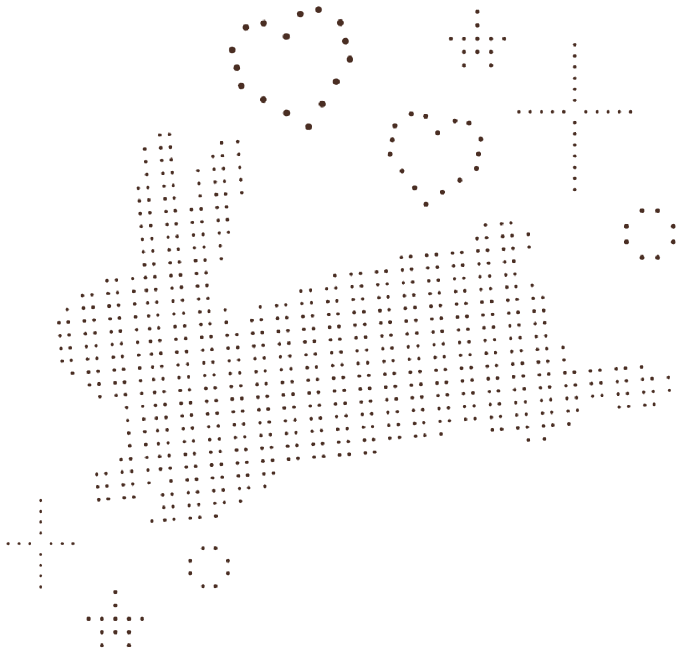
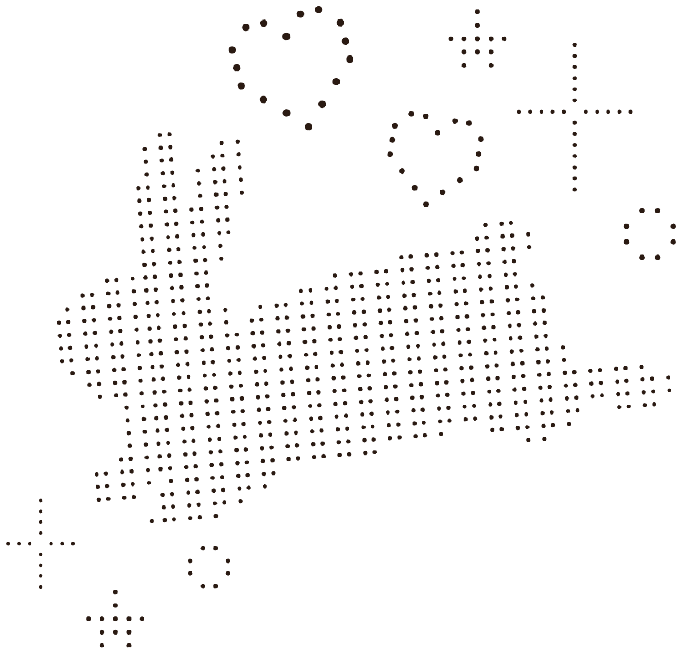
Compact cards, work experience section, two new projects

diff --git a/site/index.html b/site/index.html
@@ -269,78 +269,102 @@ a{color:inherit}
 @media(max-width:860px){.poster{width:clamp(136px,40vw,190px);
   margin-left:calc(clamp(136px,40vw,190px) / -2)}}
 
-#org .grid,#bangkit .grid{grid-template-columns:1fr;gap:clamp(.9rem,1.8vw,1.4rem)}
-#org .card,#bangkit .card{display:grid;align-items:start;gap:.1rem clamp(1rem,2vw,1.5rem);
+#bangkit .grid{grid-template-columns:1fr;gap:clamp(.9rem,1.8vw,1.4rem)}
+#bangkit .card{display:grid;align-items:start;gap:.1rem clamp(1rem,2vw,1.5rem);
   grid-template-columns:minmax(150px,26%) 1fr}
-#org .card > figure,#bangkit .card > figure{grid-column:1;grid-row:1/span 9;margin:0}
-#org .card > :not(figure),#bangkit .card > :not(figure){grid-column:2}
-#org .card h3,#bangkit .card h3{margin-top:-.15rem}
-#org .card .stack,#bangkit .card .stack{margin-top:.35rem}
+#bangkit .card > figure{grid-column:1;grid-row:1/span 9;margin:0}
+#bangkit .card > :not(figure){grid-column:2}
+#bangkit .card h3{margin-top:-.15rem}
+#bangkit .card .stack{margin-top:.35rem}
 @media(max-width:700px){
-  #org .card,#bangkit .card{grid-template-columns:1fr}
-  #org .card > figure,#bangkit .card > figure{grid-row:auto;margin-bottom:.7rem}
-  #org .card > :not(figure),#bangkit .card > :not(figure){grid-column:1}
+  #bangkit .card{grid-template-columns:1fr}
+  #bangkit .card > figure{grid-row:auto;margin-bottom:.7rem}
+  #bangkit .card > :not(figure){grid-column:1}
 }
 
-/* project cards: bold outline and a hard offset shadow, three to a row on every screen */
-#project-cards{--line:#2A1A12;padding:clamp(6.5rem,14vw,11.5rem) 0 clamp(6rem,13vw,11rem)}
-#project-cards .grid{grid-template-columns:repeat(3,minmax(0,1fr));gap:clamp(1.3rem,2.5vw,2.1rem)}
-#project-cards .card{background:#FFFCF7;border:3px solid var(--line);border-radius:22px;
-  box-shadow:7px 8px 0 var(--line);padding:1rem 1rem 1.15rem;
-  transition:transform .18s ease,box-shadow .18s ease}
+/* tiles: the same compact card on every screen. Photo, tools, title, a few lines of text,
+   and a button that opens the whole card */
+.tiles,.pdlg{--line:#2A1A12;--shade:#6B4030}
+.tiles .grid{grid-template-columns:repeat(3,minmax(0,1fr));gap:clamp(1.3rem,2.5vw,2.1rem)}
+#work .grid,#org .grid{grid-template-columns:repeat(2,minmax(0,1fr))}
+#project-cards{padding:clamp(9rem,19vw,16rem) 0 clamp(8.5rem,18vw,15rem)}
+.tiles .card{background:#FFFCF7;border:3px solid var(--line);border-radius:22px;
+  box-shadow:7px 8px 0 var(--shade);padding:1rem 1rem 1.05rem;cursor:pointer;
+  transition:transform .18s ease,box-shadow .18s ease;-webkit-tap-highlight-color:transparent}
 @media(hover:hover) and (min-width:861px){
-  #project-cards .card:hover{transform:translate(-3px,-3px);box-shadow:10px 11px 0 var(--line)}}
-:is(#project-cards,.pdlg) .card figure{margin:0 0 .9rem}
-:is(#project-cards,.pdlg) .card .slides{border:2px solid var(--line);border-radius:14px;background:#F3E6DA}
-:is(#project-cards,.pdlg) .card figure figcaption{margin-top:.45rem}
-:is(#project-cards,.pdlg) .card h3{font-size:1.08rem;font-weight:800;color:var(--line)}
-:is(#project-cards,.pdlg) .card .meta{width:fit-content;max-width:100%;margin:.55rem 0 .8rem;
+  .tiles .card:hover{transform:translate(-3px,-3px);box-shadow:10px 11px 0 var(--shade)}}
+.tiles .card:active{transform:translate(2px,2px);box-shadow:3px 4px 0 var(--shade)}
+.tiles .card figure{margin:0 0 .6rem}
+:is(.tiles,.pdlg) .card .slides{border:2px solid var(--line);border-radius:14px;background:#F3E6DA}
+.tiles .card figcaption{display:none}
+.tiles .card .stack{margin:0 0 .65rem;gap:.3rem}
+:is(.tiles,.pdlg) .card .stack span{background:var(--rose);border:1.5px solid var(--line);color:var(--line);
+  font-size:10px;font-weight:700;letter-spacing:.02em;line-height:1.3;padding:.18rem .55rem;border-radius:999px}
+:is(.tiles,.pdlg) .card h3{font-size:1.06rem;font-weight:800;color:var(--line)}
+:is(.tiles,.pdlg) .card .meta{width:fit-content;max-width:100%;margin:.5rem 0 .65rem;
   padding:.16rem .7rem;border:2px solid var(--line);border-radius:999px;background:var(--wheat);
   color:var(--line);font-size:.66rem;font-weight:700;letter-spacing:.04em;line-height:1.45}
-:is(#project-cards,.pdlg) .card .stack{padding-top:.3rem}
-:is(#project-cards,.pdlg) .card .stack span{background:var(--rose);border:1.5px solid var(--line);
-  color:var(--line);font-weight:700;padding:.12rem .5rem}
-:is(#project-cards,.pdlg) .card p.link a{color:var(--line);font-weight:700;border-bottom:2px solid var(--lotus-deep)}
-#project-cards .card .more{display:none}
+.tiles .card p.sum{display:-webkit-box;-webkit-line-clamp:3;-webkit-box-orient:vertical;overflow:hidden;margin-bottom:.8rem}
+:is(.tiles,.pdlg) .card .periods{list-style:none;padding:0;margin:0 0 .75rem;display:grid;gap:.3rem}
+:is(.tiles,.pdlg) .card .periods li{display:flex;justify-content:space-between;gap:.6rem;flex-wrap:wrap;
+  margin:0;padding:.28rem .6rem;border:1.5px solid var(--line);border-radius:10px;background:#FBF1E4;font-size:.74rem}
+:is(.tiles,.pdlg) .card .periods b{color:var(--line)}
+:is(.tiles,.pdlg) .card .periods span{color:var(--silt)}
+.tiles .card .open{align-self:flex-start;margin-top:auto;padding:.28rem .8rem;border:2px solid var(--line);
+  border-radius:999px;background:var(--wheat);color:var(--line);font:700 .72rem/1.3 Karla,sans-serif;
+  box-shadow:2px 3px 0 var(--shade);cursor:pointer}
+.tiles .card .open[hidden]{display:none}
+.tiles .card .open:hover,.tiles .card .open:focus-visible{background:var(--rose)}
+.pdlg .card figure{margin:0 0 .9rem}
+.pdlg .card figure figcaption{margin-top:.45rem}
+.pdlg .card .stack{padding-top:.3rem}
+.pdlg .card p.link a{color:var(--line);font-weight:700;border-bottom:2px solid var(--lotus-deep)}
 
-/* dotted drawings behind the cards: a rabbit leaping towards the stars, a swirl to land on */
+/* dotted drawings in the margins of the project cards; they sit behind the cards, never over text */
 #project-cards .dotart{position:absolute;inset:0;overflow:hidden;pointer-events:none;z-index:0}
-#project-cards .dotart img{position:absolute;height:auto;opacity:.88}
-#project-cards .dotart .d1{width:clamp(92px,13vw,190px);top:clamp(.5rem,1.8vw,1.4rem);
-  left:calc((100% - var(--w)) / 2 + var(--w) * .1);rotate:-5deg}
-#project-cards .dotart .d2{width:clamp(54px,7.2vw,106px);top:clamp(.3rem,1vw,.9rem);
-  left:calc((100% - var(--w)) / 2 + var(--w) * .72);rotate:9deg}
-#project-cards .dotart .d3{width:clamp(80px,11vw,162px);bottom:clamp(.4rem,1.4vw,1.1rem);
-  left:calc((100% - var(--w)) / 2 + var(--w) * .56);rotate:-8deg}
+#project-cards .dotart img{position:absolute;height:auto}
+#project-cards .dotart .d1{width:clamp(118px,17vw,250px);top:clamp(.5rem,1.4vw,1.2rem);
+  left:calc((100% - var(--w)) / 2 + var(--w) * .04);rotate:-5deg}
+#project-cards .dotart .d5{width:clamp(66px,8.8vw,128px);top:clamp(1.4rem,3.2vw,2.8rem);
+  left:calc((100% - var(--w)) / 2 + var(--w) * .47);rotate:6deg}
+#project-cards .dotart .d2{width:clamp(70px,9.5vw,140px);top:clamp(.4rem,1vw,.9rem);
+  left:calc((100% - var(--w)) / 2 + var(--w) * .8);rotate:9deg}
+#project-cards .dotart .d4{width:clamp(110px,15vw,225px);bottom:clamp(1rem,2.6vw,2.4rem);
+  left:calc((100% - var(--w)) / 2 + var(--w) * .07);rotate:4deg}
+#project-cards .dotart .d3{width:clamp(96px,13.5vw,200px);bottom:clamp(.5rem,1.2vw,1rem);
+  left:calc((100% - var(--w)) / 2 + var(--w) * .66);rotate:-8deg}
 
-/* on narrow screens the cards become small tiles; a tap opens the full card */
 @media(max-width:860px){
-  #project-cards .grid{gap:.75rem .55rem}
-  #project-cards .card{border-width:2px;border-radius:clamp(11px,2.6vw,18px);
-    box-shadow:clamp(3px,.8vw,6px) clamp(4px,1vw,7px) 0 var(--line);
-    padding:.4rem .4rem .5rem;cursor:pointer;-webkit-tap-highlight-color:transparent}
-  #project-cards .card:active{transform:translate(2px,2px);box-shadow:1px 2px 0 var(--line)}
-  #project-cards .card figure{margin-bottom:.42rem}
-  #project-cards .card .slides{border-width:1.5px;border-radius:8px}
-  #project-cards .card :is(figcaption,.meta,p,ul,.stack){display:none}
-  #project-cards .card h3{font-size:clamp(.68rem,2.3vw,.95rem);line-height:1.25;display:-webkit-box;
-    -webkit-line-clamp:3;-webkit-box-orient:vertical;overflow:hidden}
-  #project-cards .card .more{display:block;width:fit-content;margin-top:auto;translate:0 .3rem;
-    padding:.02rem .42rem;border:1.5px solid var(--line);border-radius:999px;background:var(--wheat);
-    color:var(--line);font-size:.58rem;font-weight:700;line-height:1.5}
+  .tiles .grid{gap:.8rem .6rem}
+  #work .grid,#org .grid{gap:.9rem .75rem}
+  .tiles .card{border-width:2px;border-radius:13px;box-shadow:3px 4px 0 var(--shade);padding:.45rem .45rem .55rem}
+  .tiles .card:active{box-shadow:1px 2px 0 var(--shade)}
+  .tiles .card figure{margin-bottom:.4rem}
+  .tiles .card .slides{border-width:1.5px;border-radius:8px}
+  .tiles .card .stack{gap:.2rem;margin-bottom:.4rem}
+  .tiles .card .stack span:nth-child(n+4){display:none}
+  .tiles .card .stack span{font-size:8.5px;padding:.08rem .35rem;border-width:1px}
+  .tiles .card h3{font-size:clamp(.72rem,2.5vw,.95rem);line-height:1.22}
+  .tiles .card .meta{width:auto;border:0;background:none;padding:0;margin:.25rem 0 .3rem;font-size:.6rem;letter-spacing:0;
+    color:var(--lotus-deep);line-height:1.35}
+  .tiles .card p.sum{font-size:.66rem;line-height:1.42;-webkit-line-clamp:4;margin-bottom:.5rem}
+  .tiles .card .periods li{font-size:.6rem;padding:.18rem .35rem;border-width:1px;display:block}
+  .tiles .card .periods span{display:block}
+  .tiles .card .open{padding:.14rem .45rem;border-width:1.5px;font-size:.52rem;white-space:nowrap;box-shadow:1px 2px 0 var(--shade)}
+  #work .card .open,#org .card .open{font-size:.6rem}
 }
-.pdlg{width:min(92vw,520px);max-height:86svh;padding:0;overflow:visible;background:#FFFCF7;color:var(--mud);
-  border:3px solid #2A1A12;border-radius:18px;box-shadow:6px 7px 0 #2A1A12}
+.pdlg{width:min(92vw,560px);max-height:86svh;padding:0;overflow:visible;background:#FFFCF7;color:var(--mud);
+  border:3px solid var(--line);border-radius:18px;box-shadow:6px 7px 0 var(--shade)}
 .pdlg[open]{animation:pdlg-in .22s ease-out}
 .pdlg::backdrop{background:rgba(42,26,18,.5)}
 .pdlg .in{max-height:calc(86svh - 6px);overflow:auto;overscroll-behavior:contain;border-radius:15px;padding:1rem 1rem 1.1rem}
-.pdlg .card{--line:#2A1A12;background:none;border:0;border-radius:0;padding:0}
+.pdlg .card{background:none;border:0;border-radius:0;padding:0}
 .pdlg .x{position:absolute;top:-15px;right:-11px;z-index:2;width:38px;height:38px;border-radius:50%;
-  border:2.5px solid #2A1A12;background:var(--wheat);color:#2A1A12;font:700 1.25rem/1 Karla,sans-serif;
-  box-shadow:2px 3px 0 #2A1A12;cursor:pointer}
+  border:2.5px solid var(--line);background:var(--wheat);color:var(--line);font:700 1.25rem/1 Karla,sans-serif;
+  box-shadow:2px 3px 0 var(--shade);cursor:pointer}
 html.dlg-open{overflow:hidden}
 @keyframes pdlg-in{from{opacity:0;transform:translateY(10px) scale(.97)}}
-@media(prefers-reduced-motion:reduce){.pdlg[open]{animation:none}#project-cards .card{transition:none}}
+@media(prefers-reduced-motion:reduce){.pdlg[open]{animation:none}.tiles .card{transition:none}}
 
 /* thesis feature */
 #thesis{background:linear-gradient(160deg,#8C5A44 0%,#6B4030 60%,#4E2E22 100%);color:#FBEFE0;padding:clamp(3.6rem,8vw,6.5rem) 0;overflow:hidden}
@@ -521,11 +545,13 @@ html.dlg-open{overflow:hidden}
 </section>
 
 <!-- 01b — the rest of the projects, three to a row -->
-<section class="band alt" id="project-cards">
+<section class="band alt tiles" id="project-cards">
   <div class="dotart" aria-hidden="true">
     <img class="d1" src="assets/decor/dots-rabbit.webp" alt="" width="681" height="653" loading="lazy" decoding="async">
     <img class="d2" src="assets/decor/dots-stars.webp" alt="" width="291" height="233" loading="lazy" decoding="async">
+    <img class="d5" src="assets/decor/dots-stars-2.webp" alt="" width="347" height="440" loading="lazy" decoding="async">
     <img class="d3" src="assets/decor/dots-swirl.webp" alt="" width="542" height="538" loading="lazy" decoding="async">
+    <img class="d4" src="assets/decor/dots-rabbit-2.webp" alt="" width="544" height="384" loading="lazy" decoding="async">
   </div>
   <div class="wrap">
     <div class="grid" data-cards="projects.items"></div>
@@ -542,15 +568,23 @@ html.dlg-open{overflow:hidden}
   <div class="deckbar"><div class="dots" id="dots"></div></div>
 </section>
 
-<!-- 02 — organisation -->
-<section class="band" id="org">
+<!-- 02 — work experience -->
+<section class="band alt tiles" id="work">
+  <div class="wrap">
+    <div class="lead" data-lead="work"></div>
+    <div class="grid" data-cards="work.items"></div>
+  </div>
+</section>
+
+<!-- 03 — organisation -->
+<section class="band tiles" id="org">
   <div class="wrap">
     <div class="lead" data-lead="organization"></div>
     <div class="grid" data-cards="organization.items"></div>
   </div>
 </section>
 
-<!-- 03 — Bangkit -->
+<!-- 04 — Bangkit -->
 <section class="band alt" id="bangkit">
   <div class="wrap">
     <div class="lead" data-lead="bangkit"></div>
@@ -558,7 +592,7 @@ html.dlg-open{overflow:hidden}
   </div>
 </section>
 
-<!-- 04 — honours, certificates & publication -->
+<!-- 05 — honours, certificates & publication -->
 <section class="band" id="honours">
   <div class="wrap">
     <div class="lead" data-lead="honours"></div>
@@ -658,6 +692,7 @@ function card(c) {
   }
   a.append(el('h3', null, c.title));
   if (c.meta) a.append(el('p', { class: 'meta' }, c.meta));
+  if (c.periods?.length) a.append(periods(c.periods));
   each(c.paragraphs, p => a.append(el('p', null, p)));
   if (c.points?.length) {
     const ul = el('ul');
@@ -673,20 +708,39 @@ function card(c) {
   return a;
 }
 
-/* on narrow screens the project cards are small tiles; a tap opens the whole card */
-function projectDialog(items) {
+function periods(list) {
+  const ul = el('ul', { class: 'periods' });
+  list.forEach(p => { const li = el('li'); li.append(el('b', null, p.label), el('span', null, p.date)); ul.append(li); });
+  return ul;
+}
+
+/* the compact card: photo, tools, title, a few lines, and a button to the whole card */
+function tile(c) {
+  const a = el('article', { class: 'card' });
+  if (c.images?.length) {
+    const fig = el('figure'), slides = el('div', { class: 'slides' });
+    c.images.forEach((src, i) => slides.append(photo(src, i === 0, c.title || '')));
+    fig.append(slides);
+    a.append(fig);
+  }
+  if (c.stack?.length) a.append(stack(el('div', { class: 'stack' }), c.stack));
+  a.append(el('h3', null, c.title));
+  if (c.meta) a.append(el('p', { class: 'meta' }, c.meta));
+  if (c.periods?.length) a.append(periods(c.periods));
+  if (c.paragraphs?.length) a.append(el('p', { class: 'sum' }, c.paragraphs.join(' ')));
+  const btn = el('button', { class: 'open', type: 'button', 'aria-haspopup': 'dialog' }, 'Lihat selengkapnya');
+  btn.dataset.extra = (c.points?.length || c.link || (c.images?.length && c.caption)) ? '1' : '';
+  a.append(btn);
+  return a;
+}
+
+/* "Lihat selengkapnya" opens the whole card in a dialog; it only shows when something is hidden */
+function tilesDialog(C) {
   const dlg = $('#pdlg'), body = dlg.querySelector('.in');
-  const narrow = matchMedia('(max-width: 860px)');
-  const tiles = [...document.querySelectorAll('#project-cards .card')];
   let tick;
-  const mark = () => tiles.forEach(t => {
-    if (narrow.matches) { t.setAttribute('role', 'button'); t.tabIndex = 0; t.setAttribute('aria-haspopup', 'dialog'); }
-    else { t.removeAttribute('role'); t.removeAttribute('tabindex'); t.removeAttribute('aria-haspopup'); }
-  });
-  const open = i => {
-    if (!narrow.matches || !items?.[i]) return;
-    body.replaceChildren(card(items[i]));
-    dlg.setAttribute('aria-label', items[i].title || 'Project');
+  const open = c => {
+    body.replaceChildren(card(c));
+    dlg.setAttribute('aria-label', c.title || 'Detail');
     dlg.showModal();
     body.scrollTop = 0;
     document.documentElement.classList.add('dlg-open');
@@ -696,15 +750,18 @@ function projectDialog(items) {
       tick = setInterval(() => { shots[k].classList.remove('on'); k = (k + 1) % shots.length; shots[k].classList.add('on'); }, 3400);
     }
   };
-  tiles.forEach((t, i) => {
-    t.append(el('span', { class: 'more', 'aria-hidden': 'true' }, 'Detail &rarr;'));
-    t.addEventListener('click', e => { if (!e.target.closest('a')) open(i); });
-    t.addEventListener('keydown', e => {
-      if (narrow.matches && (e.key === 'Enter' || e.key === ' ')) { e.preventDefault(); open(i); }
+  const fits = new ResizeObserver(es => es.forEach(e => {
+    const p = e.target, btn = p.parentElement.querySelector('.open');
+    btn.hidden = !(btn.dataset.extra || p.scrollHeight > p.clientHeight + 2);
+  }));
+  document.querySelectorAll('.tiles [data-cards]').forEach(grid => {
+    const list = at(C, grid.dataset.cards) || [];
+    [...grid.children].forEach((t, i) => {
+      const btn = t.querySelector('.open'), sum = t.querySelector('p.sum');
+      if (sum) fits.observe(sum); else btn.hidden = !btn.dataset.extra;
+      t.addEventListener('click', e => { if (!e.target.closest('a')) open(list[i]); });
     });
   });
-  mark();
-  narrow.addEventListener('change', () => { mark(); if (!narrow.matches && dlg.open) dlg.close(); });
   dlg.querySelector('.x').addEventListener('click', () => dlg.close());
   dlg.addEventListener('click', e => { if (e.target === dlg) dlg.close(); });
   dlg.addEventListener('close', () => { clearInterval(tick); document.documentElement.classList.remove('dlg-open'); });
@@ -716,8 +773,8 @@ function render(C) {
 
   document.querySelectorAll('[data-bind]').forEach(e => { e.innerHTML = ini(at(C, e.dataset.bind)); });
   document.querySelectorAll('[data-lead]').forEach(e => lead(e, at(C, e.dataset.lead)));
-  document.querySelectorAll('[data-cards]').forEach(e => each(at(C, e.dataset.cards), c => e.append(card(c))));
-  projectDialog(C.projects?.items);
+  document.querySelectorAll('[data-cards]').forEach(e => each(at(C, e.dataset.cards), c => e.append(e.closest('.tiles') ? tile(c) : card(c))));
+  tilesDialog(C);
 
   /* about: the bio is plain text, the script below lays it out word by word */
   $('.bio .type').dataset.text = C.about?.bio ?? '';

diff --git a/scripts/check_content.py b/scripts/check_content.py
@@ -67,6 +67,11 @@ def card(c, where):
     for k in CARD_LISTS:
         if k in c:
             text_list(c[k], f"{where}.{k}")
+    if "periods" in c and expect(c["periods"], "list", f"{where}.periods"):
+        for j, pr in enumerate(c["periods"]):
+            if expect(pr, "object", f"{where}.periods[{j}]"):
+                for k in ("label", "date"):
+                    expect(pr.get(k), "text", f"{where}.periods[{j}].{k}")
     if "link" in c and expect(c["link"], "object", f"{where}.link"):
         for k in ("text", "url"):
             if not isinstance(c["link"].get(k), str):
@@ -82,7 +87,7 @@ def items(section, key="items"):
     return value if expect(value, "list", f"{section}.{key}") else []
 
 
-for section in ("projects", "organization", "bangkit", "honours"):
+for section in ("projects", "work", "organization", "bangkit", "honours"):
     for i, c in enumerate(items(section)):
         card(c, f"{section}.items[{i}]")
 

diff --git a/README.md b/README.md
@@ -32,7 +32,7 @@ Isi `site/assets/`:
 | `thesis/` | grafik hasil uji di bagian skripsi |
 | `honours/` | foto di kartu prestasi dan publikasi |
 | `tools/` | ikon Skills & Tools |
-| `decor/` | ornamen dan frame animasi: teratai, koi, kupu-kupu, bingkai foto, air kolam, dan tiga gambar titik-titik di belakang kartu project (`dots-*.webp`) |
+| `decor/` | ornamen dan frame animasi: teratai, koi, kupu-kupu, bingkai foto, air kolam, dan lima gambar titik-titik di belakang kartu project (`dots-*.webp`) |
 | `_unused/` | 12 frame koi lama yang tidak dipakai kode mana pun, tidak ikut di-upload |
 
 ## Cara kerja deploy
@@ -104,9 +104,18 @@ Salin satu blok di `projects.items`, lalu taruh di posisi yang kamu mau. Urutan 
 }
 ```
 
-Semua bagian boleh dihapus kecuali `title`. Kalau `images` berisi lebih dari satu foto, fotonya bergantian sendiri. Bentuk kartu yang sama dipakai di `organization.items`, `bangkit.items`, dan `honours.items`.
+Semua bagian boleh dihapus kecuali `title`. Kalau `images` berisi lebih dari satu foto, fotonya bergantian sendiri. Bentuk kartu yang sama dipakai di `work.items`, `organization.items`, `bangkit.items`, dan `honours.items`.
 
-Kartu project tampil tiga per baris, di laptop maupun di HP. Di HP kartunya cuma menampilkan foto dan judul, lalu isi lengkapnya muncul di jendela kecil waktu kartu diketuk. Jadi judul yang pendek lebih enak dilihat di HP.
+Kartu di bagian project, pengalaman kerja, dan organisasi tampil ringkas dengan bentuk yang sama di laptop maupun HP: foto, tools dari `stack`, judul, `meta`, lalu beberapa baris pertama dari `paragraphs`. Tombol **Lihat selengkapnya** muncul kalau teksnya terpotong atau ada isi lain (`points`, `link`, `caption`), dan membuka kartu lengkap di jendela kecil. Project tampil tiga per baris, pengalaman kerja dan organisasi dua per baris.
+
+Untuk posisi yang punya beberapa periode, tambahkan `periods`:
+
+```json
+"periods": [
+  { "label": "Periode 1 · Level 1", "date": "Nov 2024 – Feb 2025" },
+  { "label": "Periode 2 · Level 2", "date": "Mar 2025 – Jul 2025" }
+]
+```
 
 ## Mengganti foto
 
@@ -129,7 +138,8 @@ Pakai huruf kecil dan tanda hubung untuk nama file, tanpa spasi. Format `.webp` 
 | `cover` | nama besar di halaman pembuka dan tulisan "scroll" |
 | `about` | nama, peran, bio, soft skills (`softSkills.items`), pendidikan, dan dua foto profil yang bergantian |
 | `skills.tools` | ikon Skills & Tools. Tanpa `icon`, yang tampil dua huruf awal nama. Susunan kerucutnya dirancang untuk 17 ikon, jadi kalau jumlahnya beda jauh, bentuknya ikut berubah |
-| `toc` | daftar isi. Angka seperti "6 project" masih ditulis manual |
+| `work` | pengalaman kerja (magang, mengajar), dua kartu per baris |
+| `toc` | daftar isi. Angka seperti "10 project" masih ditulis manual |
 | `thesis` | bagian skripsi, termasuk dua gambar di `shots` |
 | `posters.items` | poster yang berganti sendiri |
 | `honours` | prestasi (`items`) dan sertifikat (`certificates`) |
